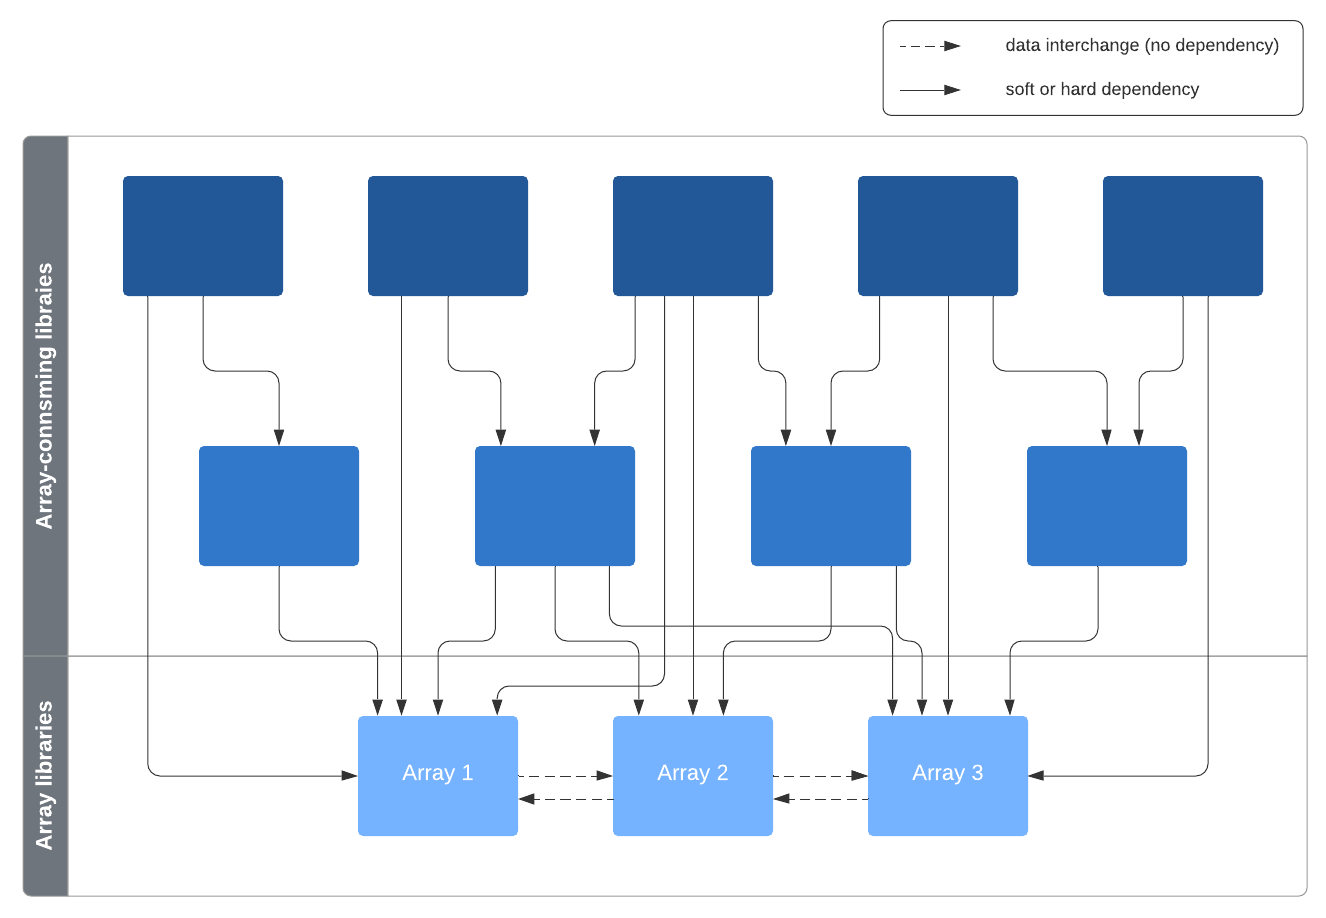
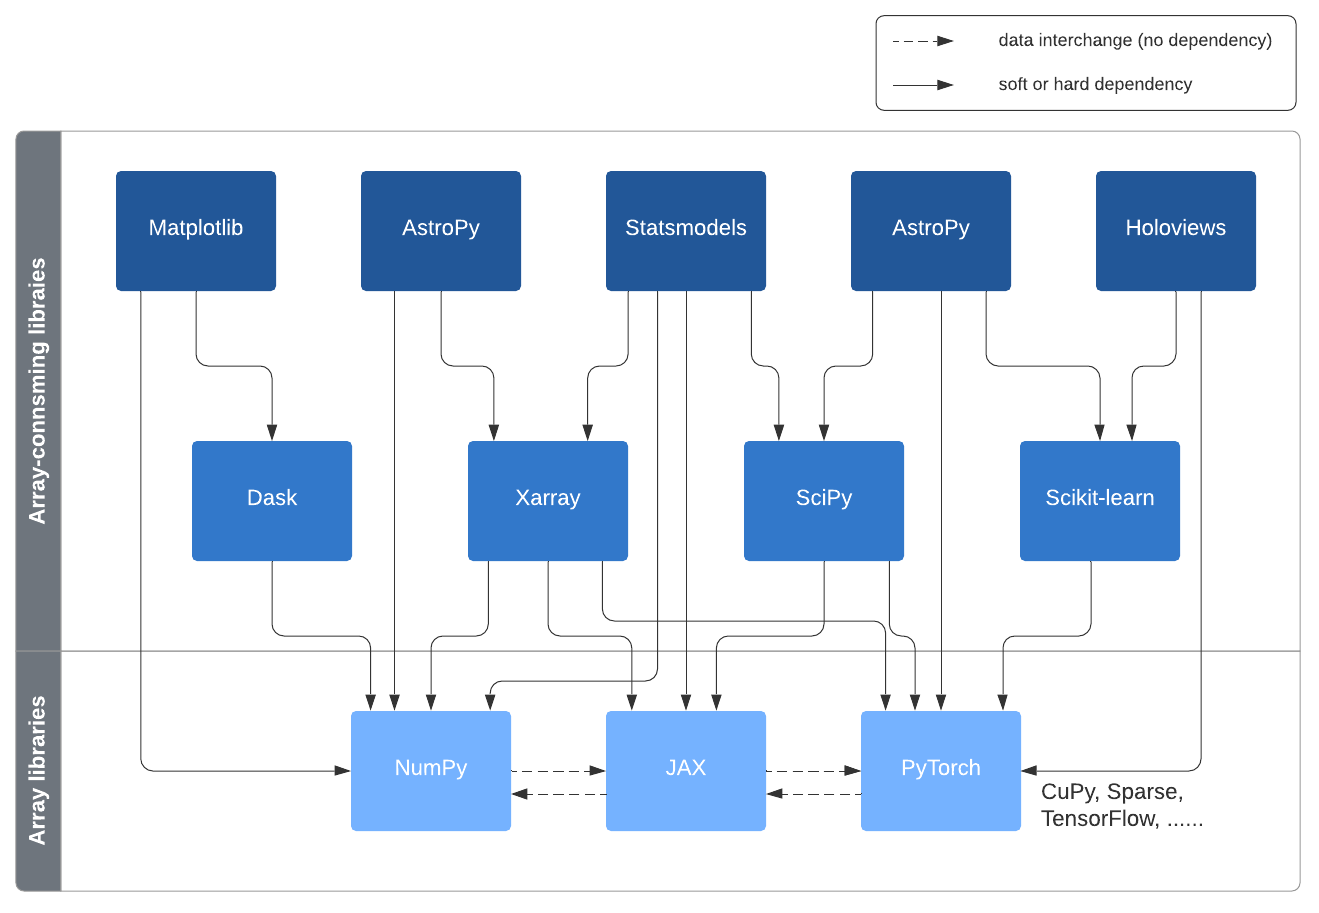
NEP: textual changes, and make first diagram more concrete

diff --git a/doc/neps/nep-0047-array-api-standard.rst b/doc/neps/nep-0047-array-api-standard.rst
@@ -41,7 +41,7 @@ frameworks pushing forward the state of the art in these fields are appearing
 every year. One unintended consequence of all this activity and creativity
 has been fragmentation in multidimensional array (a.k.a. tensor) libraries -
 which are the fundamental data structure for these fields. Choices include
-NumPy, Tensorflow, PyTorch, Dask, JAX, CuPy, MXNet, Xarray, and others.
+NumPy, Tensorflow, PyTorch, Dask, JAX, CuPy, MXNet, and others.
 
 The APIs of each of these libraries are largely similar, but with enough
 differences that it’s quite difficult to write code that works with multiple
@@ -210,7 +210,7 @@ Improvements to existing NumPy functionality that are needed include:
 Functions in the ``array_api`` namespace
 ~~~~~~~~~~~~~~~~~~~~~~~~~~~~~~~~~~~~~~~~
 
-Let's start with an example of a function implemention that shows the most
+Let's start with an example of a function implementation that shows the most
 important differences with the equivalent function in the main namespace::
 
     def reshape(x: array, shape: Tuple[int, ...], /) -> array:
@@ -220,7 +220,7 @@ important differences with the equivalent function in the main namespace::
         return np.reshape._implementation(x, shape)
 
 This function does not accept ``array_like`` inputs, only ``ndarray``. There
-are multiple reason for this. Other array libraries all work like this.
+are multiple reasons for this. Other array libraries all work like this.
 Letting the user do coercion of lists, generators, or other foreign objects
 separately results in a cleaner design with less unexpected behaviour.
 It's higher-performance - less overhead from ``asarray`` calls. Static typing
@@ -230,7 +230,7 @@ price to pay.
 
 This function does not support ``__array_ufunc__`` and ``__array_function__``.
 These protocols serve a similar purpose as the array API standard module itself,
-but through a different mechanims. Because only ``ndarray`` instances are accepted,
+but through a different mechanisms. Because only ``ndarray`` instances are accepted,
 dispatching via one of these protocols isn't useful anymore.
 
 This function uses positional-only parameters in its signature. This makes code
@@ -278,14 +278,14 @@ Adding support for DLPack to NumPy entails:
 - Adding a ``from_dlpack`` function, which takes as input an object
   supporting ``__dlpack__``, and returns an ``ndarray``.
 
-DLPack is current a ~200 LoC header, and is meant to be included directly, so
+DLPack is currently a ~200 LoC header, and is meant to be included directly, so
 no external dependency is needed. Implementation should be straightforward.
 
 
 Syntax for device support 
 ~~~~~~~~~~~~~~~~~~~~~~~~~
 
-NumPy itself is CPU-only, so clearly doesn't have a need for device support.
+NumPy itself is CPU-only, so it clearly doesn't have a need for device support.
 However, other libraries (e.g. TensorFlow, PyTorch, JAX, MXNet) support
 multiple types of devices: CPU, GPU, TPU, and more exotic hardware.
 To write portable code on systems with multiple devices, it's often necessary
@@ -306,8 +306,8 @@ from the same library and it's the same hardware device). Furthermore,
         return np.empty(shape, dtype=dtype, device=device)
 
 The implementation for NumPy may be as simple as setting the device attribute to
-``'cpu'`` and raising an exception if array creation functions encounter any
-other value.
+the string ``'cpu'`` and raising an exception if array creation functions
+encounter any other value.
 
 
 Dtypes and casting rules
